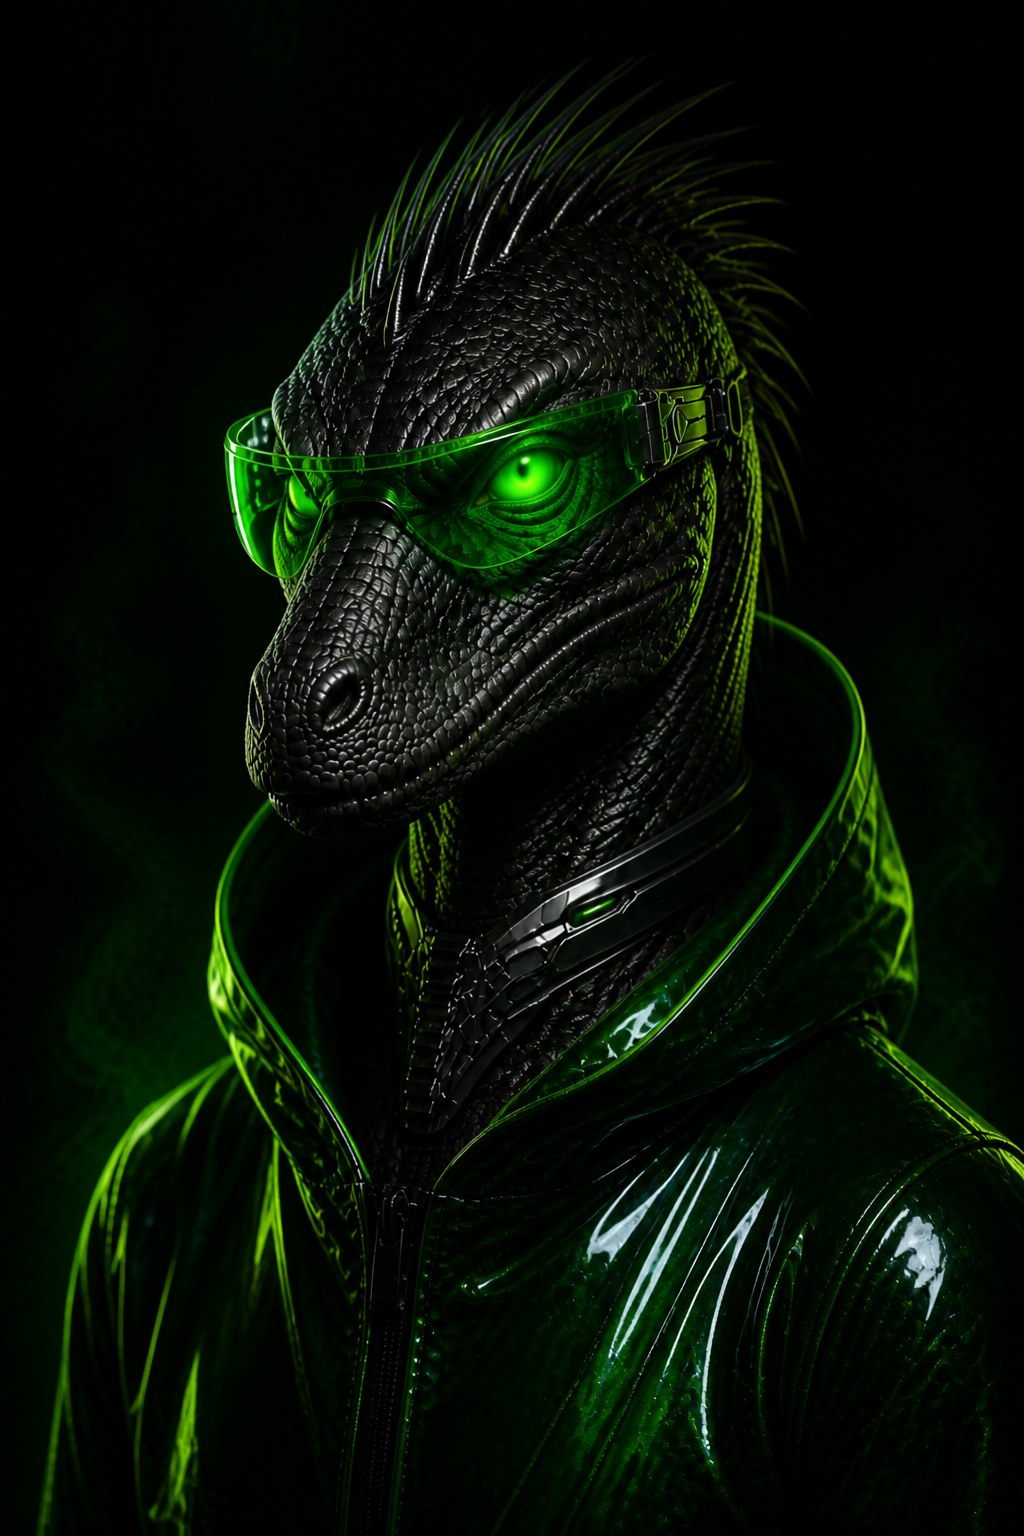
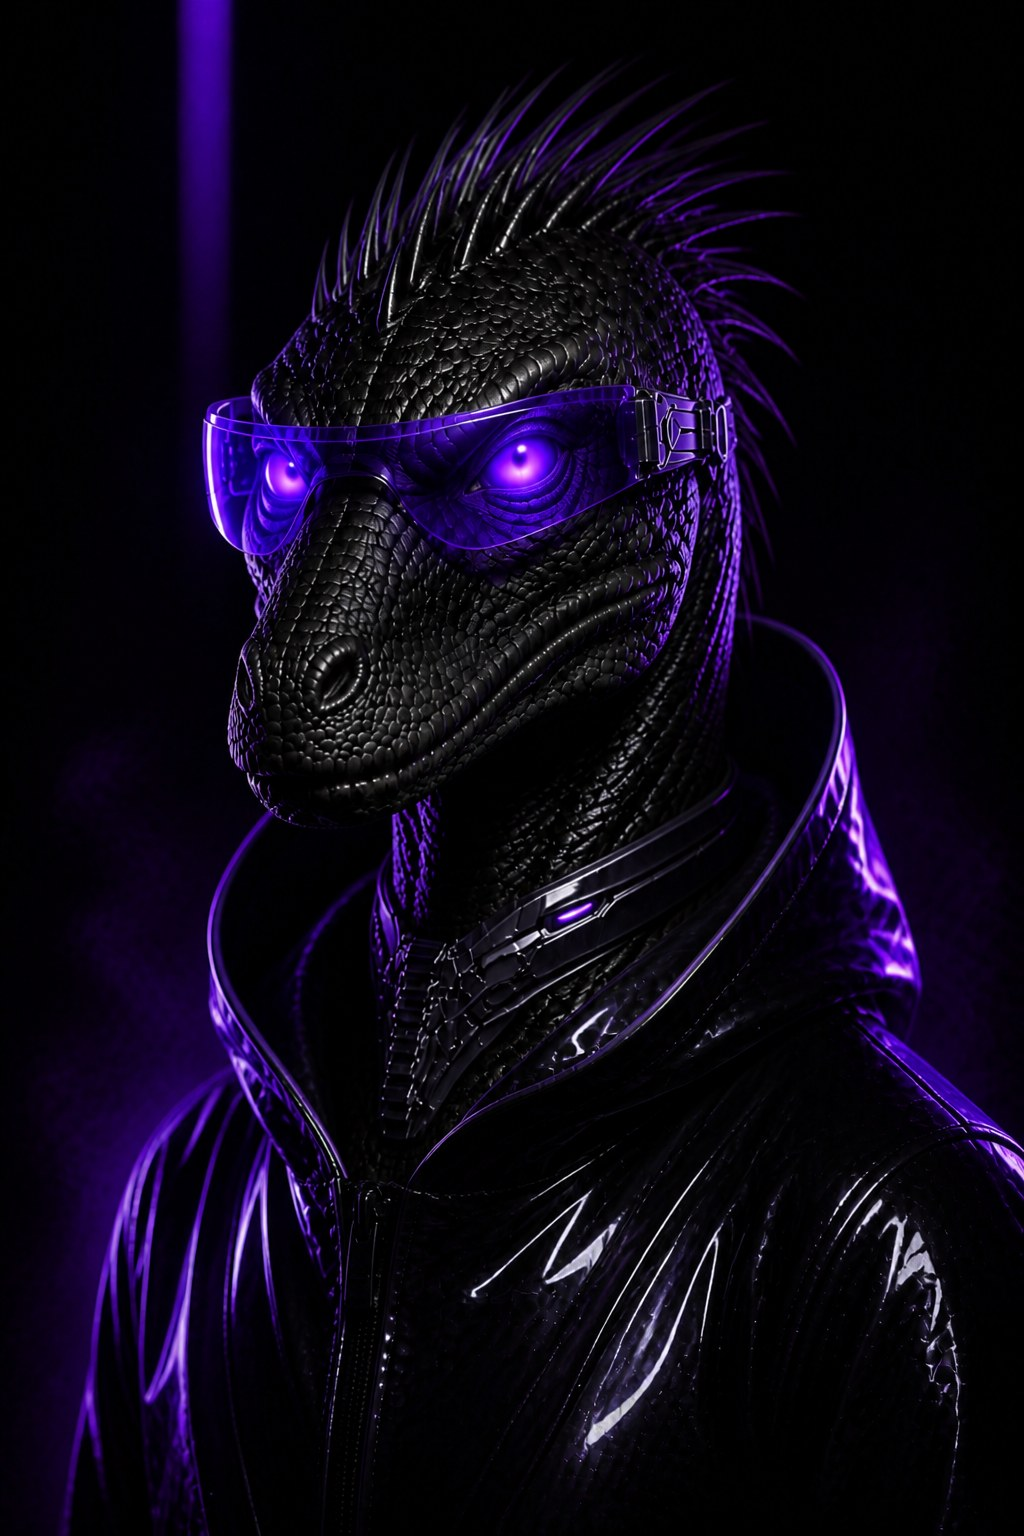
Switch Void Claw accent from green to futuristic purple
Update theme colors and regenerate Void Claw portrait/turntable
assets with cool violet neuro-visor lighting and purple haze.

diff --git a/index.html b/index.html
@@ -50,7 +50,7 @@
     <div class="hero-glow" aria-hidden="true"></div>
     <figure class="render-slot hero-render turntable" id="heroRender" data-render-slot="hero">
       <!-- Prototype render slot: swap src for a commissioned/generated creature render -->
-      <img src="assets/turntable/void-claw-0.jpg" alt="Void Claw — a luxurious photorealistic biotech-enhanced apex velociraptor with charcoal void-scale skin, black quill crest, venom-green neuro-visor and glossy biotech jacket, lit by toxic green rim light on a black background" id="heroImgA" class="tt-frame is-front" fetchpriority="high" decoding="async" />
+      <img src="assets/turntable/void-claw-0.jpg" alt="Void Claw — a luxurious photorealistic biotech-enhanced apex velociraptor with charcoal void-scale skin, black quill crest, cool futuristic purple neuro-visor and glossy biotech jacket, lit by violet rim light on a black background" id="heroImgA" class="tt-frame is-front" fetchpriority="high" decoding="async" />
       <img src="assets/turntable/void-claw-1.jpg" alt="" id="heroImgB" class="tt-frame" aria-hidden="true" decoding="async" />
       <div class="scanline" aria-hidden="true"></div>
       <div class="render-vignette" aria-hidden="true"></div>
@@ -135,7 +135,7 @@
   <div class="explore-ghost" aria-hidden="true">EXPLORE</div>
   <div class="explore-canvas" id="exploreCanvas">
     <a class="xcard panel" href="#species" data-navlink data-depth="0.35" style="--x:4%; --y:8%; --w:300px">
-      <figure class="xcard-img render-slot"><img loading="lazy" decoding="async" src="assets/void-claw.jpg" alt="Void Claw, a biotech-enhanced apex raptor with venom-green neuro-visor" /></figure>
+      <figure class="xcard-img render-slot"><img loading="lazy" decoding="async" src="assets/void-claw.jpg" alt="Void Claw, a biotech-enhanced apex raptor with cool futuristic purple neuro-visor" /></figure>
       <p class="mono dim">01 / GALLERY</p>
       <h3 class="cond">EXPLORE SPECIES</h3>
       <p class="xcard-sub">Seven signature companions. One icon each.</p>

diff --git a/app.js b/app.js
@@ -22,8 +22,8 @@ const SPECIES = {
   "void-claw": {
     id: "void-claw", name: "Void Claw", painted: "Void Claw", ghost: "VOID CLAW",
     img: "assets/void-claw.jpg",
-    alt: "Void Claw — a photorealistic biotech-enhanced apex velociraptor with charcoal void-scale skin, black quill crest, venom-green neuro-visor and glossy shadow-bioplate fashion",
-    ac: "#86f000", ac2: "#1f7a3d", ac3: "#d8ffb0",
+    alt: "Void Claw — a photorealistic biotech-enhanced apex velociraptor with charcoal void-scale skin, black quill crest, cool futuristic purple neuro-visor and glossy shadow-bioplate fashion",
+    ac: "#a855f7", ac2: "#6d28d9", ac3: "#e9d5ff",
     specimen: "GN-0092",
     base: "APEX RAPTOR",
     inspiration: "VELOCIRAPTOR × NEURO-STEALTH",

diff --git a/styles.css b/styles.css
@@ -13,12 +13,12 @@
   --grey: #92929d;
   --line: rgba(247, 247, 243, 0.12);
 
-  /* specimen accent (defaults: Void Claw venom green) */
-  --ac: #86f000;
-  --ac2: #1f7a3d;
-  --ac3: #d8ffb0;
-  --ac-dim: rgba(134, 240, 0, 0.14);
-  --ac-glow: rgba(134, 240, 0, 0.32);
+  /* specimen accent (defaults: Void Claw futuristic purple) */
+  --ac: #a855f7;
+  --ac2: #6d28d9;
+  --ac3: #e9d5ff;
+  --ac-dim: rgba(168, 85, 247, 0.14);
+  --ac-glow: rgba(168, 85, 247, 0.32);
 
   --font-cond: "Anton", "Arial Narrow", sans-serif;
   --font-paint: "Permanent Marker", cursive;
